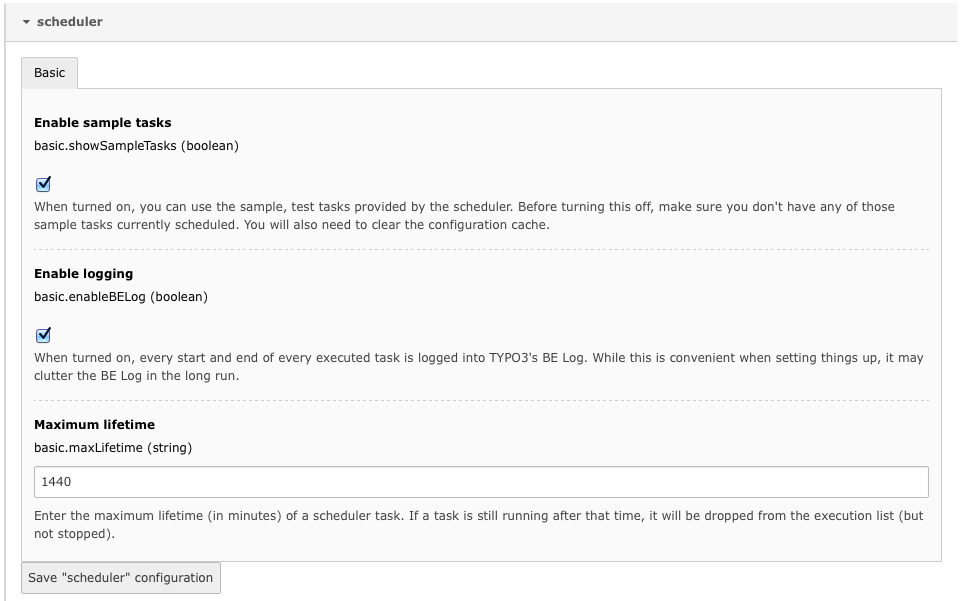
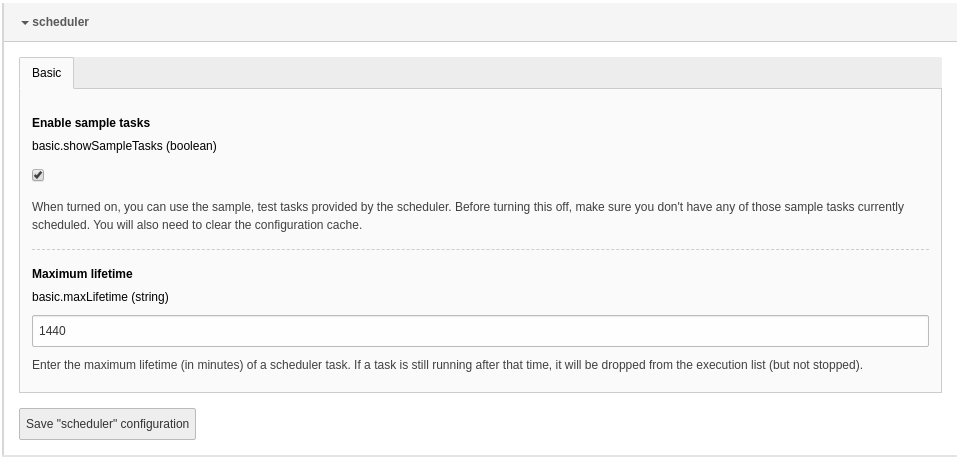
[DOCS] Remove eliminated scheduler configuration setting
Remove the eliminated extension configuration option "enableBELog" in
the documentation.

Additionally the unused language setting for extension configuration
"scheduler.config.listShowTaskDescriptionAsHover" was deleted.

Resolves: #89202
Relates: #83866
Releases: master, 9.5

Changed region(s): [[0.0, 0.0, 0.9979, 1.0], [0.9677, 0.7031, 0.9979, 0.7336]]

diff --git a/Documentation/Installation/Installing/Index.rst b/Documentation/Installation/Installing/Index.rst
@@ -16,25 +16,19 @@ The process is pretty straightforward: just install the extension in
 the Extension Manager. One database table will be created. Once the
 extension is installed, the following settings are available:
 
-- **Maximum lifetime** : it may happen that a task crashes while
-  executing. In this case it will stay in a state marked as "running".
-  That may prevent it from being executed again, if parallel executions
-  are denied (see "Tasks execution" above). The maximum lifetime
-  parameter ensures that old executions are removed after a while. The
-  lifetime is expressed in **minutes** . The default is 15 minutes.
-
-- **Enable logging** : by default, the Scheduler will write an entry in
-  the BE log every time it starts and ends, and also when it skips a
-  (denied) parallel execution. This is helpful when setting up a system,
-  but it may end up cluttering the log in the long run. It's possible to
-  turn off all logging by unchecking this option.
-
 - **Enable sample tasks** : the Scheduler provides two sample tasks
   (called "Scheduler test task" and "Scheduler sleep task") which are
   useful during development and as code examples. However they have
   little use in real life, so this option makes it possible to turn them
   off. If disabled, they won't appear in the list of available tasks
   anymore.
+
+- **Maximum lifetime** : it may happen that a task crashes while
+  executing. In this case it will stay in a state marked as "running".
+  That may prevent it from being executed again, if parallel executions
+  are denied (see "Tasks execution" above). The maximum lifetime
+  parameter ensures that old executions are removed after a while. The
+  lifetime is expressed in **minutes** . The default is 15 minutes.
 
 .. figure:: ../../Images/ExtensionConfiguration.png
     :alt: Extension configuration
